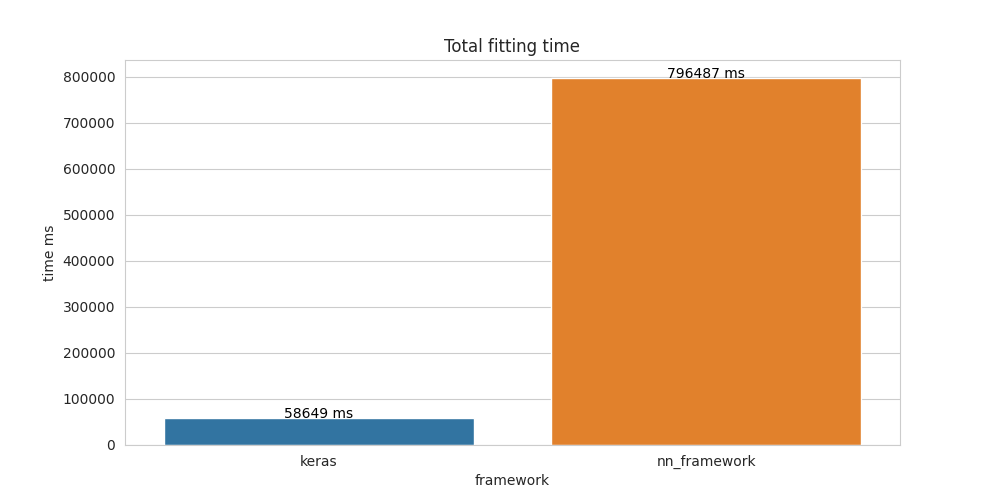
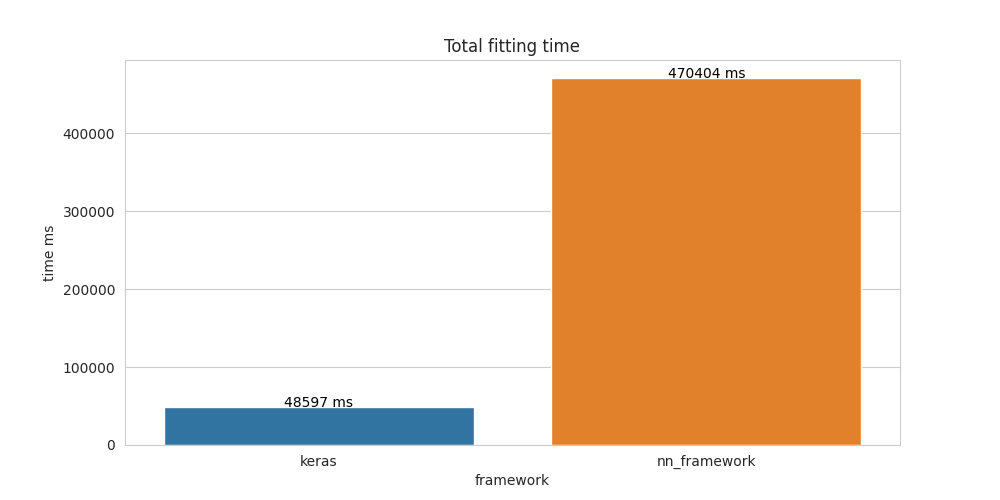
Fix typo in configuration

diff --git a/benchmarks/cases/cifar/config.hpp b/benchmarks/cases/cifar/config.hpp
@@ -30,7 +30,7 @@ namespace benchmarks {
                                                std::make_unique<CategoricalCrossEntropyLoss<float>>());
 
             model
-                    .AddLayer<Convolution2dLayer>(3, 10, 3, 3, ConvolutionPadding::Same, std::make_unique<GlorotUniformInitializer<float>>())
+                    .AddLayer<Convolution2dLayer>(3, 3, 3, 3, ConvolutionPadding::Same, std::make_unique<GlorotUniformInitializer<float>>())
                     .AddLayer<ReLUActivationLayer>()
                     .AddLayer<MaxPooling2dLayer>(2, 2)
 

diff --git a/benchmarks/cases/cifar/config.py b/benchmarks/cases/cifar/config.py
@@ -19,7 +19,7 @@ def load_data(data_path: str) -> (np.array, np.array, np.array, np.array):
 
 def build_model() -> Model:
     model = Sequential([
-        L.Conv2D(10, (3, 3), activation='relu', input_shape=(32, 32, 3)),
+        L.Conv2D(3, (3, 3), activation='relu', input_shape=(32, 32, 3)),
         L.MaxPooling2D((2, 2)),
         L.Conv2D(5, (3, 3), activation='relu', input_shape=(32, 32, 3)),
         L.MaxPooling2D((2, 2)),

diff --git a/benchmarks/infrastructure/benchmarks.py b/benchmarks/infrastructure/benchmarks.py
@@ -161,7 +161,7 @@ def main():
 
     tests = [
         ('mnist', 32, 10),
-        ('cifar', 128, 5),
+        ('cifar', 128, 10),
     ]
     for test_name, batch_size, epochs in tests:
         data_path = f'cases/{test_name}/data'
